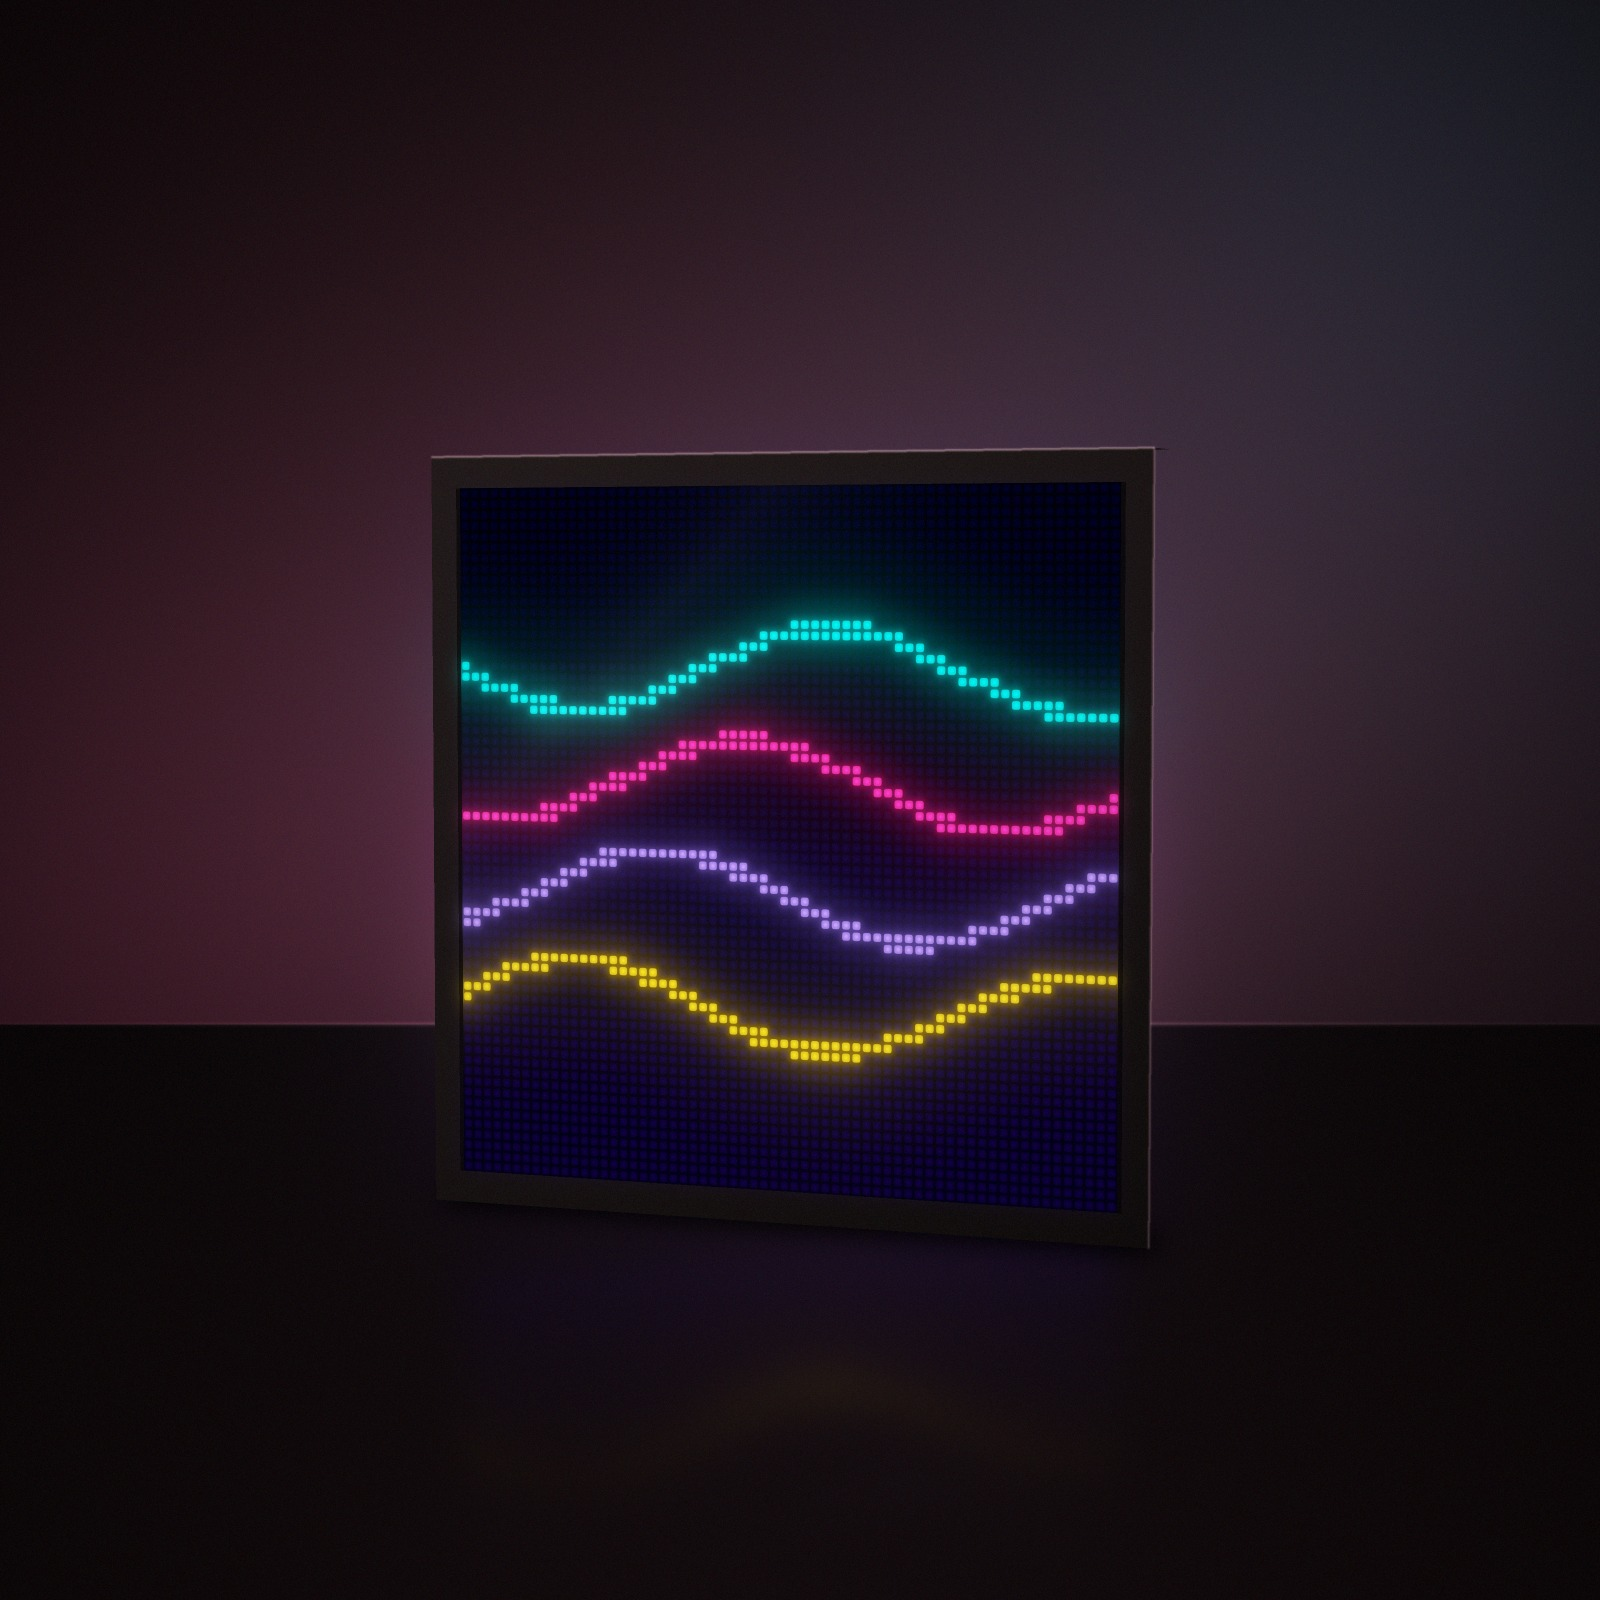
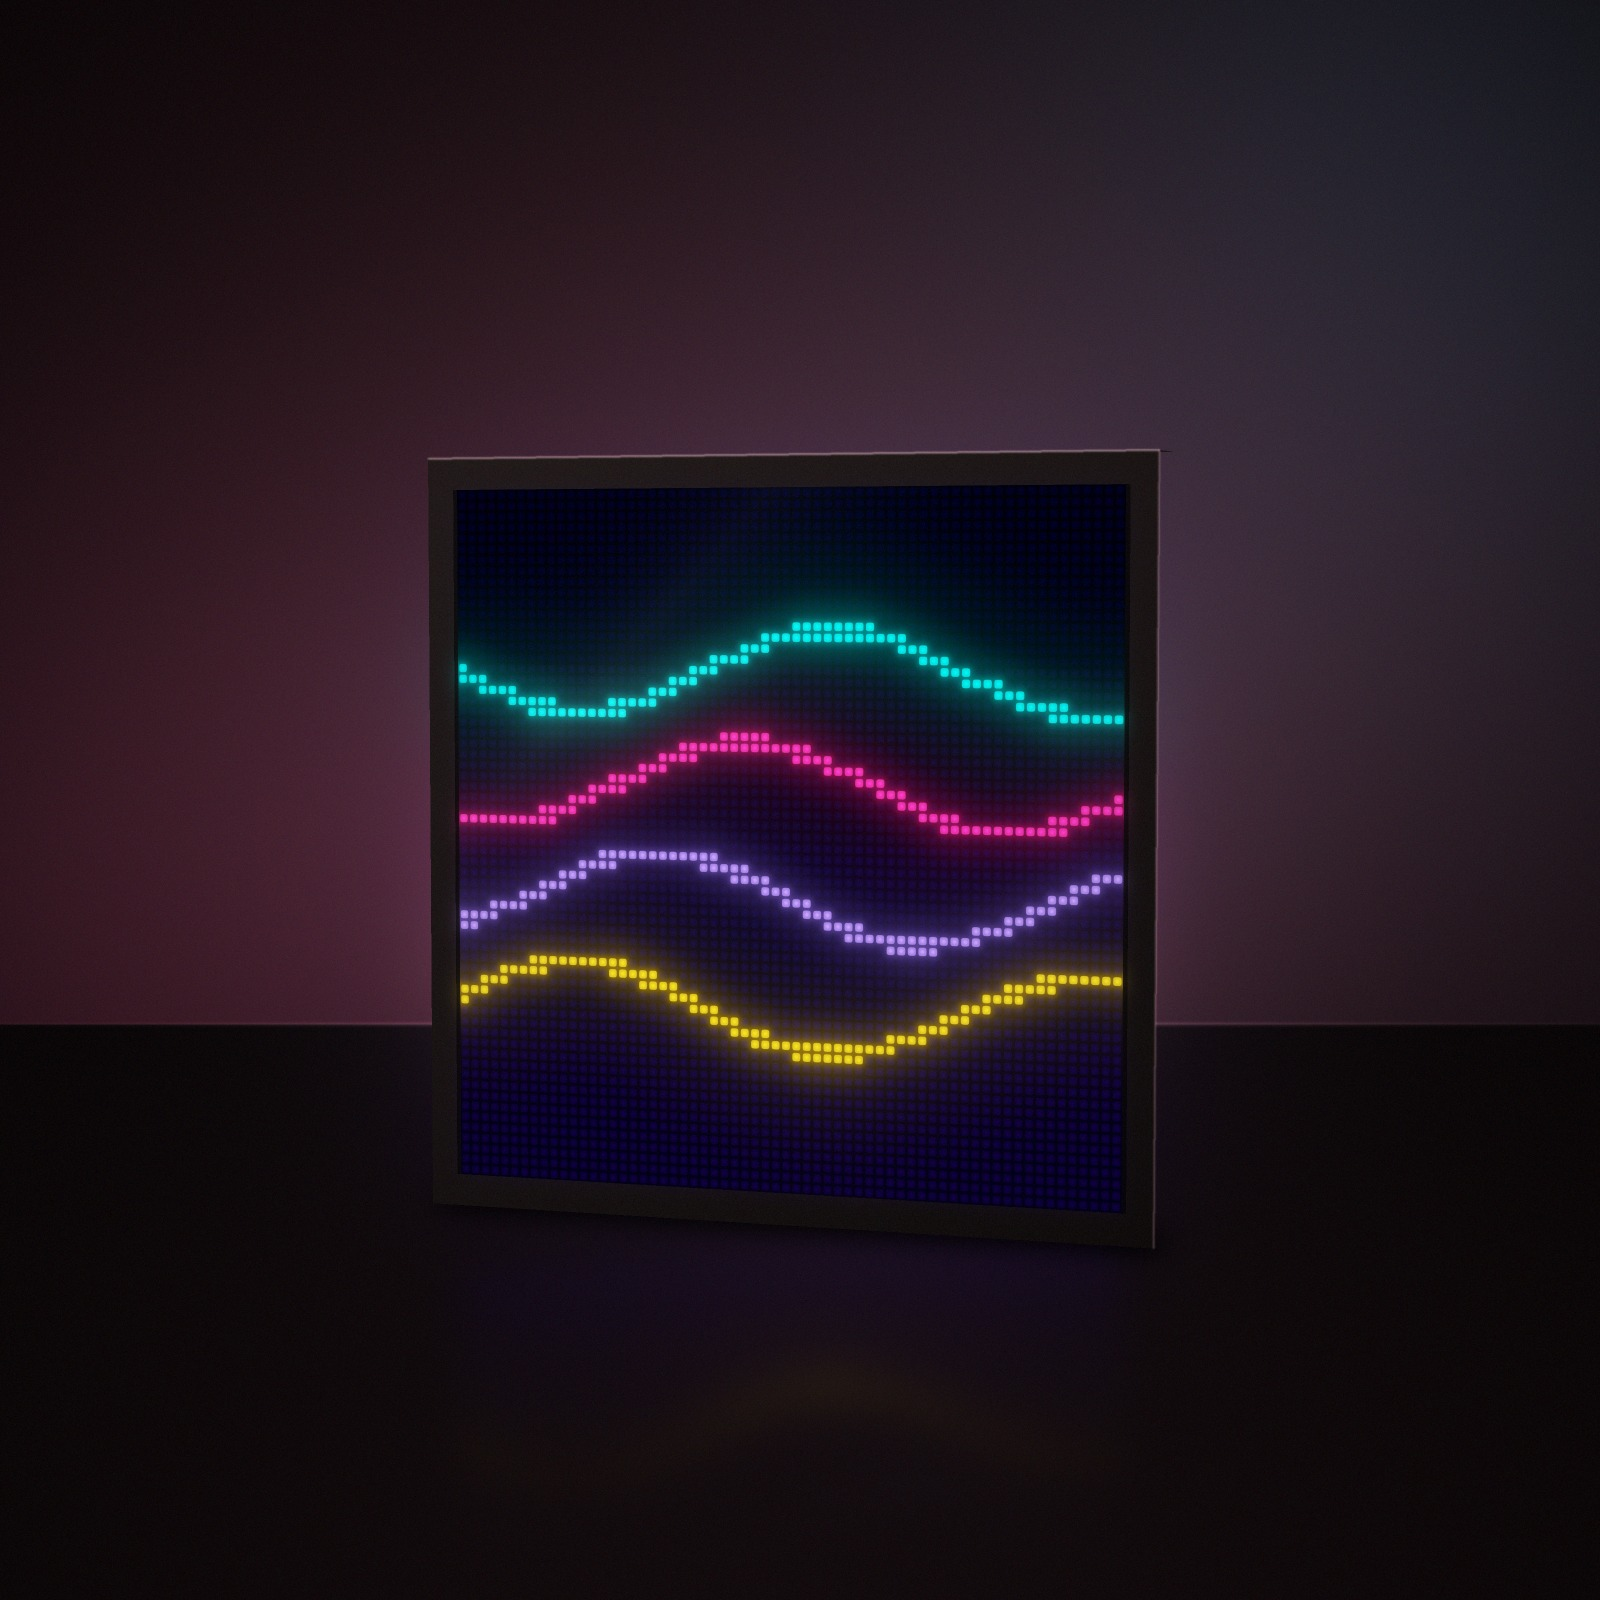
Photos du cadre selon la variante et photo d'accueil réaliste
- Galerie produit : chaque visuel existe en 32x32 et 64x64 (champ par_variante),
  bascule avec la variante choisie ; photo des cotes réservée au 64x64 (champ variantes)
- Photo d'accueil : vraie photo du cadre sur un bureau (source fournisseur retouchée,
  écran remplacé par le coucher de soleil Lumipix, pièce assombrie) au lieu du rendu 3D
- composer.py génère tous les visuels dans les deux résolutions ; __pycache__ ignoré

Claude-Session: https://claude.ai/code/session_01BPKePnije1NqoMfPTsrdyf

diff --git a/src/content.config.ts b/src/content.config.ts
@@ -27,6 +27,10 @@ const media = z.strictObject({
   /** Nom du fichier dans assets/produits/[slug]/ (ex. "01-hero.jpg"). */
   src: z.string().min(1),
   alt: z.string().trim().min(1, 'texte alternatif obligatoire'),
+  /** Fichier à afficher à la place de src quand cette variante est choisie (ex. { "32x32": "01-hero-32.jpg" }). */
+  par_variante: z.record(z.string(), z.string().min(1)).optional(),
+  /** Variantes pour lesquelles la photo est montrée (par défaut : toutes). */
+  variantes: z.array(z.string()).min(1).optional(),
 });
 
 const video = z.strictObject({
@@ -169,6 +173,17 @@ const produits = defineCollection({
         }
       }
 
+      // Photos par variante : identifiants de variante existants
+      p.photos.forEach((m, i) => {
+        for (const [champ, cles] of [['par_variante', Object.keys(m.par_variante ?? {})], ['variantes', m.variantes ?? []]] as const) {
+          for (const cle of cles) {
+            if (!ids.includes(cle)) {
+              ctx.addIssue({ code: 'custom', path: ['photos', i, champ], message: `variante "${cle}" inconnue` });
+            }
+          }
+        }
+      });
+
       if (p.delai_livraison.min_jours_ouvres > p.delai_livraison.max_jours_ouvres) {
         ctx.addIssue({ code: 'custom', path: ['delai_livraison'], message: 'min supérieur à max' });
       }
@@ -182,7 +197,10 @@ const produits = defineCollection({
 
       // Les médias doivent exister dans assets/produits/[slug]/
       const fichiers = [
-        ...p.photos.map((m, i) => ({ f: m.src, path: ['photos', i, 'src'] })),
+        ...p.photos.flatMap((m, i) => [
+          { f: m.src, path: ['photos', i, 'src'] },
+          ...Object.entries(m.par_variante ?? {}).map(([v, f]) => ({ f, path: ['photos', i, 'par_variante', v] })),
+        ]),
         ...p.videos.flatMap((m, i) => [
           { f: m.src, path: ['videos', i, 'src'] },
           ...(m.poster ? [{ f: m.poster, path: ['videos', i, 'poster'] }] : []),

diff --git a/scripts/visuels/composer.py b/scripts/visuels/composer.py
@@ -1,27 +1,63 @@
 """
 Retouche des photos fournisseur du cadre (jamais publiées telles quelles) :
 recadrage, effacement du texte marketing, écran remplacé par une scène Lumipix
-simulée comme une vraie photo d'écran LED.
+simulée comme une vraie photo d'écran LED. Chaque visuel est produit en deux
+versions : 64x64 (fichier de base) et 32x32 (suffixe -32), affichée sur la page
+produit quand la variante 32x32 est choisie.
 
   node scripts/visuels/grilles.ts && python3 scripts/visuels/composer.py
 Dépendances : pip install opencv-python-headless numpy
 """
 import cv2, sys, os
+import numpy as np
 sys.path.insert(0, os.path.dirname(os.path.abspath(__file__)))
 from led import incruster, remplir_vertical
+from studio import rendre
 ICI = os.path.dirname(os.path.abspath(__file__))
 R = os.path.join(ICI, '../../sources/fournisseur/cadre-pixel-art-led/')
 O = os.path.join(ICI, '../../assets/produits/cadre-pixel-art-led/')
 Q = [cv2.IMWRITE_JPEG_QUALITY, 93]
-# 01 : remplacé par un rendu de studio (studio.py)
-img = cv2.imread(R + '3.jpeg')
-img = remplir_vertical(img, 0, 36, 1160, 318)
-for i, (quad, sc) in enumerate([([[463,545],[752,547],[751,837],[461,835]], 'vague-neon-64'), ([[893,365],[1183,365],[1183,656],[893,656]], 'coucher-soleil-64'), ([[1253,103],[1543,103],[1543,393],[1253,393]], 'chat-64')]):
-    img = incruster(img, quad, sc, halo=0.22, marge=0.008, graine=i, flou=0.8)
-cv2.imwrite(O + '02-ambiance.jpg', img, Q)
-img = cv2.imread(R + '2.jpeg')
-img = incruster(img, [[566,726],[1148,757],[995,1508],[409,1357]], 'coeur-64', halo=0.3, marge=0.008)
-cv2.imwrite(O + '03-cadeau.jpg', img[560:1600, 260:1300], Q)
+
+
+def nom(base, n):
+    return O + (f'{base}.jpg' if n == 64 else f'{base}-32.jpg')
+
+
+for n in (64, 32):
+    # 01 : vraie photo du cadre sur un bureau (4.jpeg), recadrée sur le cadre et recentrée :
+    # texte, téléphone et main retirés, bande gauche prolongée à partir du mur et du plateau.
+    img = cv2.imread(R + '4.jpeg')
+    img = incruster(img, [[673, 451], [1300, 451], [1304, 1071], [679, 1071]], f'coucher-soleil-{n}', halo=0.12, marge=0.006, flou=0.7, bruit=1.5)
+    c = img[300:1320, 480:1500].copy()
+    k = 633 - 480
+    ref = cv2.GaussianBlur(c[:, k:k + 4].astype(np.float32).mean(1, keepdims=True), (0, 0), 1.5)
+    c[:, :k] = np.clip(ref + np.random.default_rng(5).normal(0, 1.8, (c.shape[0], k, 3)), 0, 255).astype(np.uint8)
+    # pièce assombrie (ambiance de soirée), écran intact ; recadrage sans la bande du bas
+    h, w = c.shape[:2]
+    yy, xx = np.mgrid[0:h, 0:w].astype(np.float32)
+    lum = 0.42 + 0.4 * np.exp(-(((xx - 507) / 520) ** 2 + ((yy - 470) / 470) ** 2))
+    ecran = np.zeros((h, w), np.float32)
+    cv2.fillConvexPoly(ecran, np.int32([[673 - 480, 451 - 300], [1300 - 480, 451 - 300], [1304 - 480, 1071 - 300], [679 - 480, 1071 - 300]]), 1.0)
+    ecran = cv2.GaussianBlur(ecran, (0, 0), 3)
+    lum = lum * (1 - ecran) + ecran
+    c = np.clip(c.astype(np.float32) * lum[..., None] * np.float32([1.05, 0.92, 0.95]) ** (1 - ecran[..., None]), 0, 255).astype(np.uint8)
+    cv2.imwrite(nom('01-hero', n), c[10:975, 25:990], Q)
+
+    img = cv2.imread(R + '3.jpeg')
+    img = remplir_vertical(img, 0, 36, 1160, 318)
+    for i, (quad, sc) in enumerate([([[463,545],[752,547],[751,837],[461,835]], 'vague-neon'), ([[893,365],[1183,365],[1183,656],[893,656]], 'coucher-soleil'), ([[1253,103],[1543,103],[1543,393],[1253,393]], 'chat')]):
+        img = incruster(img, quad, f'{sc}-{n}', halo=0.22, marge=0.008, graine=i, flou=0.8)
+    cv2.imwrite(nom('02-ambiance', n), img, Q)
+
+    img = cv2.imread(R + '2.jpeg')
+    img = incruster(img, [[566,726],[1148,757],[995,1508],[409,1357]], f'coeur-{n}', halo=0.3, marge=0.008)
+    cv2.imwrite(nom('03-cadeau', n), img[560:1600, 260:1300], Q)
+
+    # 05, 06 : rendus de studio 100 % synthétiques
+    cv2.imwrite(nom('05-studio-neon', n), rendre(f'vague-neon-{n}', 1600, 1600, yaw=0.35), [cv2.IMWRITE_JPEG_QUALITY, 92])
+    cv2.imwrite(nom('06-studio-chat', n), rendre(f'chat-{n}', 1600, 1600, yaw=-0.22), [cv2.IMWRITE_JPEG_QUALITY, 92])
+
+# 04 : cotes du modèle 64x64 uniquement (dimensions du 32x32 non mesurées)
 img = cv2.imread(R + '6.jpeg')
 img = incruster(img, [[251,195],[731,238],[716,716],[257,657]], 'horloge-64', halo=0.08, marge=0.01, flou=0.4, bruit=1.0)
 cv2.imwrite(O + '04-dimensions.jpg', img[105:835, 140:870], Q)

diff --git a/src/content/produits/cadre-pixel-art-led.md b/src/content/produits/cadre-pixel-art-led.md
@@ -20,20 +20,28 @@ variantes:
     disponible: true
 frais_de_port: 0
 
-# Visuels : version 64x64. Rendus de studio (01, 05, 06) et photos retouchées, écrans affichant les scènes originales Lumipix.
+# Visuels : photos retouchées (01 à 04) et rendus de studio (05, 06), écrans affichant les scènes originales Lumipix.
+# Chaque visuel existe en version 64x64 (fichier de base) et 32x32 (suffixe -32), montrée quand la variante 32x32 est choisie.
+# Le cadre photographié est le modèle 64x64 : seule la densité de pixels change.
 photos:
   - src: "01-hero.jpg"
-    alt: "Cadre pixel art LED 64x64 allumé sur un coucher de soleil rétro, posé dans un studio sombre"
+    alt: "Cadre pixel art LED allumé sur un coucher de soleil rétro, posé sur un bureau"
+    par_variante: { "32x32": "01-hero-32.jpg" }
   - src: "02-ambiance.jpg"
     alt: "Trois cadres LED pixel accrochés au mur d'un salon : vagues néon, coucher de soleil et chat"
+    par_variante: { "32x32": "02-ambiance-32.jpg" }
   - src: "03-cadeau.jpg"
     alt: "Écran pixel art affichant un cœur, posé près d'un sapin et de cadeaux"
+    par_variante: { "32x32": "03-cadeau-32.jpg" }
   - src: "04-dimensions.jpg"
     alt: "Dimensions du cadre 64x64 en mode horloge : 260 x 260 mm pour 17 mm d'épaisseur"
+    variantes: ["64x64"]
   - src: "05-studio-neon.jpg"
     alt: "Cadre LED pixel affichant des vagues néon, sa lumière se reflète sur le plateau"
+    par_variante: { "32x32": "05-studio-neon-32.jpg" }
   - src: "06-studio-chat.jpg"
     alt: "Écran pixel art du cadre affichant un chat roux sous un ciel étoilé"
+    par_variante: { "32x32": "06-studio-chat-32.jpg" }
 videos:
   - src: "05-demo.mp4"
     alt: "Démonstration du cadre : retrait du film, connexion à l'application, dessin envoyé en direct, dégradé arc-en-ciel, texte défilant, horloges et animations"

diff --git a/README.md b/README.md
@@ -87,7 +87,7 @@ Le dessin entier est encodé dans l'URL (`src/lib/pixel/dessin.ts` : compression
 
 `assets/produits/cadre-pixel-art-led/` contient les visuels publiés : photos et vidéo du fournisseur retravaillées (texte marketing retiré, écrans remplacés par nos scènes originales, son supprimé). Les fichiers bruts sont dans `sources/fournisseur/`, qui n'est jamais servi par le site. La galerie précise que le contenu des écrans est simulé.
 
-Visuels de studio (01, 05, 06) : rendus 100 % synthétiques, `python3 scripts/visuels/studio.py <scene> <sortie.jpg> 1600 1600 <angle>`. Photos retouchées (02 à 04) : `node scripts/visuels/grilles.ts && python3 scripts/visuels/composer.py` (dépendances : `pip install opencv-python-headless numpy`). L'écran est simulé comme une vraie photo d'écran LED : diodes carrées aux coins arrondis, cœur lumineux, halo, noirs profonds, reflet sur le plateau.
+Tous les visuels du cadre sont produits par `node scripts/visuels/grilles.ts && python3 scripts/visuels/composer.py` (dépendances : `pip install opencv-python-headless numpy`) : photos fournisseur retouchées (01 à 04) et rendus de studio 100 % synthétiques (05, 06, via `scripts/visuels/studio.py`), chacun en version 64x64 et 32x32 (suffixe `-32`, affichée sur la page produit quand la variante 32x32 est choisie, champ `par_variante` de la fiche). L'écran est simulé comme une vraie photo d'écran LED : diodes carrées aux coins arrondis, cœur lumineux, halo, noirs profonds, reflet sur le plateau.
 
 ## Brouillons et prévisualisation
 

diff --git a/docs/AJOUTER-UN-PRODUIT.md b/docs/AJOUTER-UN-PRODUIT.md
@@ -58,6 +58,8 @@ delai_livraison:
 photos:                                  # fichiers de assets/produits/mon-produit/
   - src: "01-hero.jpg"
     alt: "Description précise de l'image, avec le mot-clé principal pour la première"
+#   par_variante: { "petit": "01-hero-petit.jpg" }  # facultatif : autre fichier quand cette variante est choisie
+#   variantes: ["grand"]                           # facultatif : photo montrée seulement pour ces variantes
 videos: []
 #  - src: "demo.mp4"
 #    alt: "Ce que montre la vidéo"
